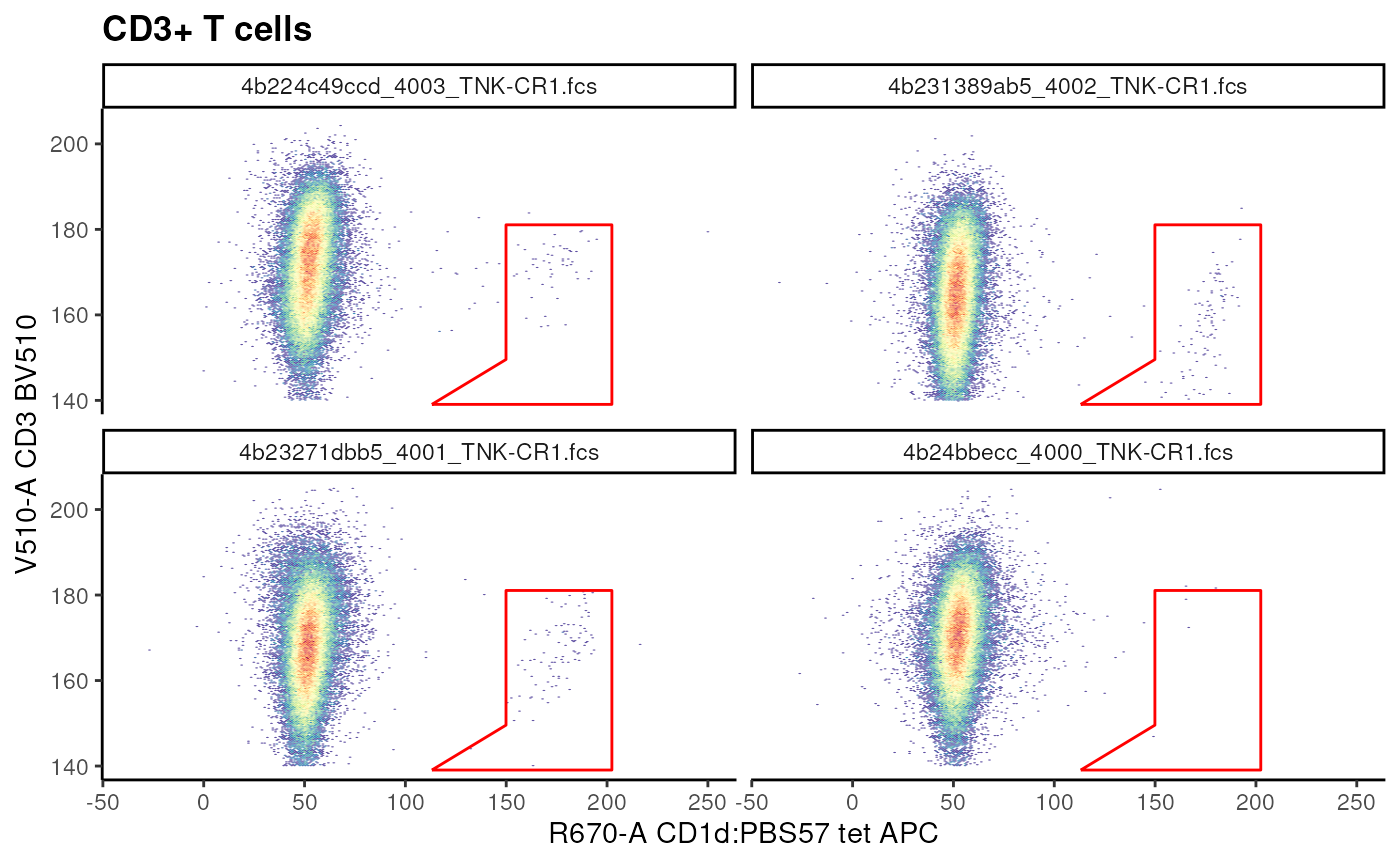
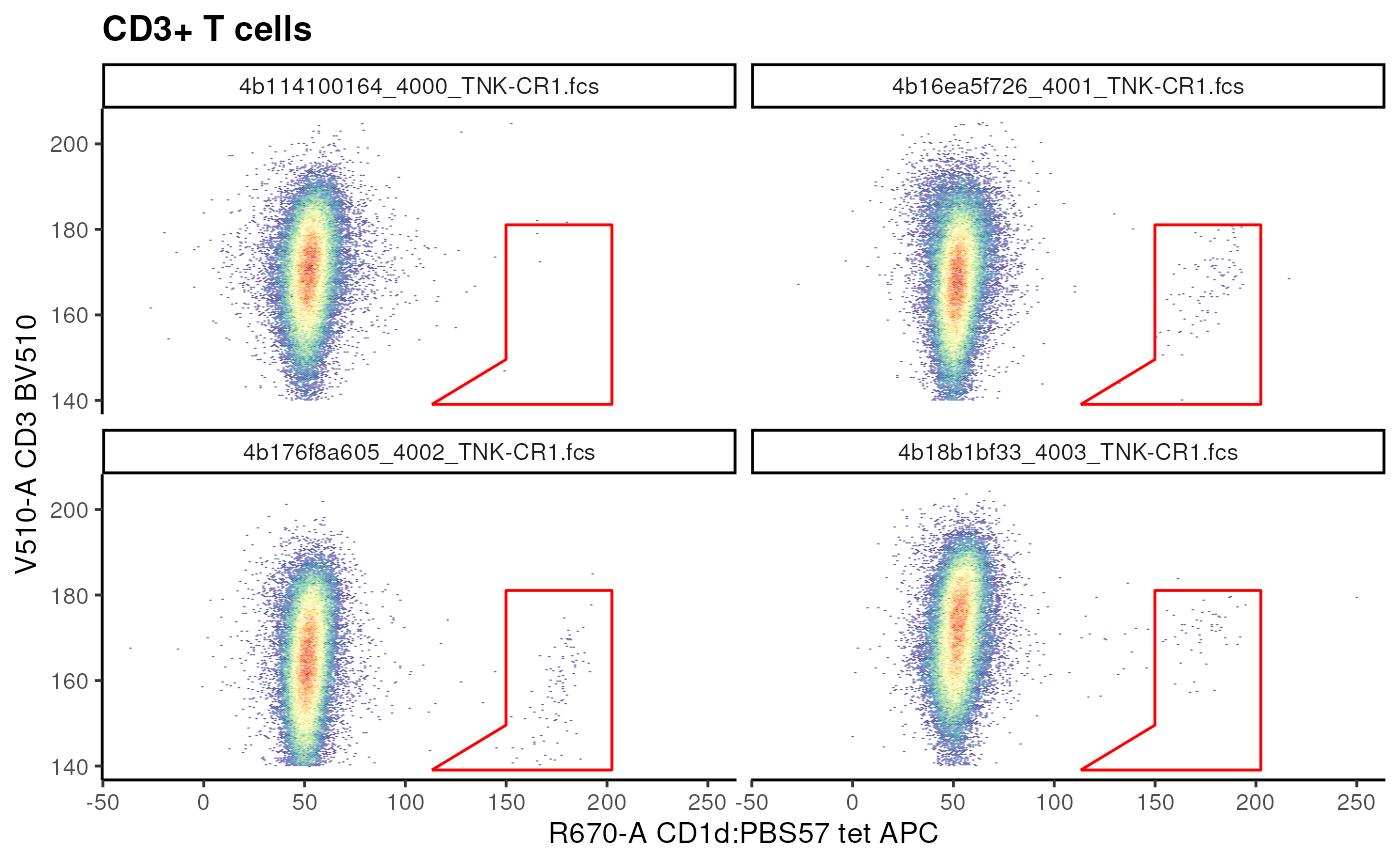
Deploying to gh-pages from @ OzetteTech/cytoverse-bioc-2023@9ab070774673ebd343eef5b520ec7b83f82ab056 🚀

diff --git a/articles/Import_fcs.html b/articles/Import_fcs.html
@@ -482,61 +482,61 @@ Additionally, <code>cytoset</code> is built upon a collection of
 <span><span class="co"># prior to providing metadata</span></span>
 <span><span class="fu"><a href="https://rdrr.io/pkg/Biobase/man/phenoData.html" class="external-link">pData</a></span><span class="op">(</span><span class="va">fs</span><span class="op">)</span></span></code></pre></div>
 <pre><code><span><span class="co">##                                                      name</span></span>
-<span><span class="co">## 4b22c204bb0_4000_BDC-CR1.fcs 4b22c204bb0_4000_BDC-CR1.fcs</span></span>
-<span><span class="co">## 4b24c3d3d45_4000_BDC-CR2.fcs 4b24c3d3d45_4000_BDC-CR2.fcs</span></span>
-<span><span class="co">## 4b24bbecc_4000_TNK-CR1.fcs     4b24bbecc_4000_TNK-CR1.fcs</span></span>
-<span><span class="co">## 4b230e08772_4000_TNK-CR2.fcs 4b230e08772_4000_TNK-CR2.fcs</span></span>
-<span><span class="co">## 4b2620860db_4001_BDC-CR1.fcs 4b2620860db_4001_BDC-CR1.fcs</span></span>
-<span><span class="co">## 4b267a096cd_4001_BDC-CR2.fcs 4b267a096cd_4001_BDC-CR2.fcs</span></span>
-<span><span class="co">## 4b23271dbb5_4001_TNK-CR1.fcs 4b23271dbb5_4001_TNK-CR1.fcs</span></span>
-<span><span class="co">## 4b2447e0a89_4001_TNK-CR2.fcs 4b2447e0a89_4001_TNK-CR2.fcs</span></span>
-<span><span class="co">## 4b2533bcf54_4002_BDC-CR1.fcs 4b2533bcf54_4002_BDC-CR1.fcs</span></span>
-<span><span class="co">## 4b2519a6229_4002_BDC-CR2.fcs 4b2519a6229_4002_BDC-CR2.fcs</span></span>
-<span><span class="co">## 4b231389ab5_4002_TNK-CR1.fcs 4b231389ab5_4002_TNK-CR1.fcs</span></span>
-<span><span class="co">## 4b241534469_4002_TNK-CR2.fcs 4b241534469_4002_TNK-CR2.fcs</span></span>
-<span><span class="co">## 4b2614f8d29_4003_BDC-CR1.fcs 4b2614f8d29_4003_BDC-CR1.fcs</span></span>
-<span><span class="co">## 4b250f2d882_4003_BDC-CR2.fcs 4b250f2d882_4003_BDC-CR2.fcs</span></span>
-<span><span class="co">## 4b224c49ccd_4003_TNK-CR1.fcs 4b224c49ccd_4003_TNK-CR1.fcs</span></span>
-<span><span class="co">## 4b2552dde4f_4003_TNK-CR2.fcs 4b2552dde4f_4003_TNK-CR2.fcs</span></span></code></pre>
+<span><span class="co">## 4b128ded40d_4000_BDC-CR1.fcs 4b128ded40d_4000_BDC-CR1.fcs</span></span>
+<span><span class="co">## 4b11a681d05_4000_BDC-CR2.fcs 4b11a681d05_4000_BDC-CR2.fcs</span></span>
+<span><span class="co">## 4b114100164_4000_TNK-CR1.fcs 4b114100164_4000_TNK-CR1.fcs</span></span>
+<span><span class="co">## 4b17f7d2e7c_4000_TNK-CR2.fcs 4b17f7d2e7c_4000_TNK-CR2.fcs</span></span>
+<span><span class="co">## 4b15178c30d_4001_BDC-CR1.fcs 4b15178c30d_4001_BDC-CR1.fcs</span></span>
+<span><span class="co">## 4b1538ad966_4001_BDC-CR2.fcs 4b1538ad966_4001_BDC-CR2.fcs</span></span>
+<span><span class="co">## 4b16ea5f726_4001_TNK-CR1.fcs 4b16ea5f726_4001_TNK-CR1.fcs</span></span>
+<span><span class="co">## 4b12097d2fd_4001_TNK-CR2.fcs 4b12097d2fd_4001_TNK-CR2.fcs</span></span>
+<span><span class="co">## 4b156bfc070_4002_BDC-CR1.fcs 4b156bfc070_4002_BDC-CR1.fcs</span></span>
+<span><span class="co">## 4b114e75a85_4002_BDC-CR2.fcs 4b114e75a85_4002_BDC-CR2.fcs</span></span>
+<span><span class="co">## 4b176f8a605_4002_TNK-CR1.fcs 4b176f8a605_4002_TNK-CR1.fcs</span></span>
+<span><span class="co">## 4b1761170b6_4002_TNK-CR2.fcs 4b1761170b6_4002_TNK-CR2.fcs</span></span>
+<span><span class="co">## 4b16750225b_4003_BDC-CR1.fcs 4b16750225b_4003_BDC-CR1.fcs</span></span>
+<span><span class="co">## 4b17c204c8a_4003_BDC-CR2.fcs 4b17c204c8a_4003_BDC-CR2.fcs</span></span>
+<span><span class="co">## 4b18b1bf33_4003_TNK-CR1.fcs   4b18b1bf33_4003_TNK-CR1.fcs</span></span>
+<span><span class="co">## 4b11de2681c_4003_TNK-CR2.fcs 4b11de2681c_4003_TNK-CR2.fcs</span></span></code></pre>
 <div class="sourceCode" id="cb60"><pre class="downlit sourceCode r">
 <code class="sourceCode R"><span><span class="co"># add metadata </span></span>
 <span><span class="fu"><a href="https://rdrr.io/pkg/Biobase/man/phenoData.html" class="external-link">pData</a></span><span class="op">(</span><span class="va">fs</span><span class="op">)</span> <span class="op">&lt;-</span> <span class="va">metadata</span></span>
 <span></span>
 <span><span class="fu"><a href="https://rdrr.io/pkg/Biobase/man/phenoData.html" class="external-link">pData</a></span><span class="op">(</span><span class="va">fs</span><span class="op">)</span></span></code></pre></div>
 <pre><code><span><span class="co">##                              Treatment         panel</span></span>
-<span><span class="co">## 4b22c204bb0_4000_BDC-CR1.fcs Untreated Myeloid Panel</span></span>
-<span><span class="co">## 4b24c3d3d45_4000_BDC-CR2.fcs   Treated Myeloid Panel</span></span>
-<span><span class="co">## 4b24bbecc_4000_TNK-CR1.fcs   Untreated  T Cell Panel</span></span>
-<span><span class="co">## 4b230e08772_4000_TNK-CR2.fcs Untreated  T Cell Panel</span></span>
-<span><span class="co">## 4b2620860db_4001_BDC-CR1.fcs Untreated Myeloid Panel</span></span>
-<span><span class="co">## 4b267a096cd_4001_BDC-CR2.fcs   Treated Myeloid Panel</span></span>
-<span><span class="co">## 4b23271dbb5_4001_TNK-CR1.fcs Untreated  T Cell Panel</span></span>
-<span><span class="co">## 4b2447e0a89_4001_TNK-CR2.fcs Untreated  T Cell Panel</span></span>
-<span><span class="co">## 4b2533bcf54_4002_BDC-CR1.fcs Untreated Myeloid Panel</span></span>
-<span><span class="co">## 4b2519a6229_4002_BDC-CR2.fcs   Treated Myeloid Panel</span></span>
-<span><span class="co">## 4b231389ab5_4002_TNK-CR1.fcs   Treated  T Cell Panel</span></span>
-<span><span class="co">## 4b241534469_4002_TNK-CR2.fcs   Treated  T Cell Panel</span></span>
-<span><span class="co">## 4b2614f8d29_4003_BDC-CR1.fcs   Treated Myeloid Panel</span></span>
-<span><span class="co">## 4b250f2d882_4003_BDC-CR2.fcs Untreated Myeloid Panel</span></span>
-<span><span class="co">## 4b224c49ccd_4003_TNK-CR1.fcs   Treated  T Cell Panel</span></span>
-<span><span class="co">## 4b2552dde4f_4003_TNK-CR2.fcs Untreated  T Cell Panel</span></span>
+<span><span class="co">## 4b128ded40d_4000_BDC-CR1.fcs   Treated Myeloid Panel</span></span>
+<span><span class="co">## 4b11a681d05_4000_BDC-CR2.fcs Untreated Myeloid Panel</span></span>
+<span><span class="co">## 4b114100164_4000_TNK-CR1.fcs Untreated  T Cell Panel</span></span>
+<span><span class="co">## 4b17f7d2e7c_4000_TNK-CR2.fcs   Treated  T Cell Panel</span></span>
+<span><span class="co">## 4b15178c30d_4001_BDC-CR1.fcs   Treated Myeloid Panel</span></span>
+<span><span class="co">## 4b1538ad966_4001_BDC-CR2.fcs   Treated Myeloid Panel</span></span>
+<span><span class="co">## 4b16ea5f726_4001_TNK-CR1.fcs Untreated  T Cell Panel</span></span>
+<span><span class="co">## 4b12097d2fd_4001_TNK-CR2.fcs Untreated  T Cell Panel</span></span>
+<span><span class="co">## 4b156bfc070_4002_BDC-CR1.fcs Untreated Myeloid Panel</span></span>
+<span><span class="co">## 4b114e75a85_4002_BDC-CR2.fcs Untreated Myeloid Panel</span></span>
+<span><span class="co">## 4b176f8a605_4002_TNK-CR1.fcs   Treated  T Cell Panel</span></span>
+<span><span class="co">## 4b1761170b6_4002_TNK-CR2.fcs   Treated  T Cell Panel</span></span>
+<span><span class="co">## 4b16750225b_4003_BDC-CR1.fcs   Treated Myeloid Panel</span></span>
+<span><span class="co">## 4b17c204c8a_4003_BDC-CR2.fcs   Treated Myeloid Panel</span></span>
+<span><span class="co">## 4b18b1bf33_4003_TNK-CR1.fcs  Untreated  T Cell Panel</span></span>
+<span><span class="co">## 4b11de2681c_4003_TNK-CR2.fcs Untreated  T Cell Panel</span></span>
 <span><span class="co">##                                                      name</span></span>
-<span><span class="co">## 4b22c204bb0_4000_BDC-CR1.fcs 4b22c204bb0_4000_BDC-CR1.fcs</span></span>
-<span><span class="co">## 4b24c3d3d45_4000_BDC-CR2.fcs 4b24c3d3d45_4000_BDC-CR2.fcs</span></span>
-<span><span class="co">## 4b24bbecc_4000_TNK-CR1.fcs     4b24bbecc_4000_TNK-CR1.fcs</span></span>
-<span><span class="co">## 4b230e08772_4000_TNK-CR2.fcs 4b230e08772_4000_TNK-CR2.fcs</span></span>
-<span><span class="co">## 4b2620860db_4001_BDC-CR1.fcs 4b2620860db_4001_BDC-CR1.fcs</span></span>
-<span><span class="co">## 4b267a096cd_4001_BDC-CR2.fcs 4b267a096cd_4001_BDC-CR2.fcs</span></span>
-<span><span class="co">## 4b23271dbb5_4001_TNK-CR1.fcs 4b23271dbb5_4001_TNK-CR1.fcs</span></span>
-<span><span class="co">## 4b2447e0a89_4001_TNK-CR2.fcs 4b2447e0a89_4001_TNK-CR2.fcs</span></span>
-<span><span class="co">## 4b2533bcf54_4002_BDC-CR1.fcs 4b2533bcf54_4002_BDC-CR1.fcs</span></span>
-<span><span class="co">## 4b2519a6229_4002_BDC-CR2.fcs 4b2519a6229_4002_BDC-CR2.fcs</span></span>
-<span><span class="co">## 4b231389ab5_4002_TNK-CR1.fcs 4b231389ab5_4002_TNK-CR1.fcs</span></span>
-<span><span class="co">## 4b241534469_4002_TNK-CR2.fcs 4b241534469_4002_TNK-CR2.fcs</span></span>
-<span><span class="co">## 4b2614f8d29_4003_BDC-CR1.fcs 4b2614f8d29_4003_BDC-CR1.fcs</span></span>
-<span><span class="co">## 4b250f2d882_4003_BDC-CR2.fcs 4b250f2d882_4003_BDC-CR2.fcs</span></span>
-<span><span class="co">## 4b224c49ccd_4003_TNK-CR1.fcs 4b224c49ccd_4003_TNK-CR1.fcs</span></span>
-<span><span class="co">## 4b2552dde4f_4003_TNK-CR2.fcs 4b2552dde4f_4003_TNK-CR2.fcs</span></span></code></pre>
+<span><span class="co">## 4b128ded40d_4000_BDC-CR1.fcs 4b128ded40d_4000_BDC-CR1.fcs</span></span>
+<span><span class="co">## 4b11a681d05_4000_BDC-CR2.fcs 4b11a681d05_4000_BDC-CR2.fcs</span></span>
+<span><span class="co">## 4b114100164_4000_TNK-CR1.fcs 4b114100164_4000_TNK-CR1.fcs</span></span>
+<span><span class="co">## 4b17f7d2e7c_4000_TNK-CR2.fcs 4b17f7d2e7c_4000_TNK-CR2.fcs</span></span>
+<span><span class="co">## 4b15178c30d_4001_BDC-CR1.fcs 4b15178c30d_4001_BDC-CR1.fcs</span></span>
+<span><span class="co">## 4b1538ad966_4001_BDC-CR2.fcs 4b1538ad966_4001_BDC-CR2.fcs</span></span>
+<span><span class="co">## 4b16ea5f726_4001_TNK-CR1.fcs 4b16ea5f726_4001_TNK-CR1.fcs</span></span>
+<span><span class="co">## 4b12097d2fd_4001_TNK-CR2.fcs 4b12097d2fd_4001_TNK-CR2.fcs</span></span>
+<span><span class="co">## 4b156bfc070_4002_BDC-CR1.fcs 4b156bfc070_4002_BDC-CR1.fcs</span></span>
+<span><span class="co">## 4b114e75a85_4002_BDC-CR2.fcs 4b114e75a85_4002_BDC-CR2.fcs</span></span>
+<span><span class="co">## 4b176f8a605_4002_TNK-CR1.fcs 4b176f8a605_4002_TNK-CR1.fcs</span></span>
+<span><span class="co">## 4b1761170b6_4002_TNK-CR2.fcs 4b1761170b6_4002_TNK-CR2.fcs</span></span>
+<span><span class="co">## 4b16750225b_4003_BDC-CR1.fcs 4b16750225b_4003_BDC-CR1.fcs</span></span>
+<span><span class="co">## 4b17c204c8a_4003_BDC-CR2.fcs 4b17c204c8a_4003_BDC-CR2.fcs</span></span>
+<span><span class="co">## 4b18b1bf33_4003_TNK-CR1.fcs   4b18b1bf33_4003_TNK-CR1.fcs</span></span>
+<span><span class="co">## 4b11de2681c_4003_TNK-CR2.fcs 4b11de2681c_4003_TNK-CR2.fcs</span></span></code></pre>
 <p>The benefit having metadata is that we can use many of the
 sub-setting operations in a metadata specific manner. <em>Note: Many of
 the sub-setting operation for <code>flowFrame</code> is also applicable
@@ -559,23 +559,23 @@ files.</p>
 <div class="sourceCode" id="cb64"><pre class="downlit sourceCode r">
 <code class="sourceCode R"><span><span class="fu"><a href="https://rdrr.io/pkg/Biobase/man/phenoData.html" class="external-link">pData</a></span><span class="op">(</span><span class="va">fs_myeloid</span><span class="op">)</span></span></code></pre></div>
 <pre><code><span><span class="co">##                              Treatment         panel</span></span>
-<span><span class="co">## 4b22c204bb0_4000_BDC-CR1.fcs Untreated Myeloid Panel</span></span>
-<span><span class="co">## 4b24c3d3d45_4000_BDC-CR2.fcs   Treated Myeloid Panel</span></span>
-<span><span class="co">## 4b2620860db_4001_BDC-CR1.fcs Untreated Myeloid Panel</span></span>
-<span><span class="co">## 4b267a096cd_4001_BDC-CR2.fcs   Treated Myeloid Panel</span></span>
-<span><span class="co">## 4b2533bcf54_4002_BDC-CR1.fcs Untreated Myeloid Panel</span></span>
-<span><span class="co">## 4b2519a6229_4002_BDC-CR2.fcs   Treated Myeloid Panel</span></span>
-<span><span class="co">## 4b2614f8d29_4003_BDC-CR1.fcs   Treated Myeloid Panel</span></span>
-<span><span class="co">## 4b250f2d882_4003_BDC-CR2.fcs Untreated Myeloid Panel</span></span>
+<span><span class="co">## 4b128ded40d_4000_BDC-CR1.fcs   Treated Myeloid Panel</span></span>
+<span><span class="co">## 4b11a681d05_4000_BDC-CR2.fcs Untreated Myeloid Panel</span></span>
+<span><span class="co">## 4b15178c30d_4001_BDC-CR1.fcs   Treated Myeloid Panel</span></span>
+<span><span class="co">## 4b1538ad966_4001_BDC-CR2.fcs   Treated Myeloid Panel</span></span>
+<span><span class="co">## 4b156bfc070_4002_BDC-CR1.fcs Untreated Myeloid Panel</span></span>
+<span><span class="co">## 4b114e75a85_4002_BDC-CR2.fcs Untreated Myeloid Panel</span></span>
+<span><span class="co">## 4b16750225b_4003_BDC-CR1.fcs   Treated Myeloid Panel</span></span>
+<span><span class="co">## 4b17c204c8a_4003_BDC-CR2.fcs   Treated Myeloid Panel</span></span>
 <span><span class="co">##                                                      name</span></span>
-<span><span class="co">## 4b22c204bb0_4000_BDC-CR1.fcs 4b22c204bb0_4000_BDC-CR1.fcs</span></span>
-<span><span class="co">## 4b24c3d3d45_4000_BDC-CR2.fcs 4b24c3d3d45_4000_BDC-CR2.fcs</span></span>
-<span><span class="co">## 4b2620860db_4001_BDC-CR1.fcs 4b2620860db_4001_BDC-CR1.fcs</span></span>
-<span><span class="co">## 4b267a096cd_4001_BDC-CR2.fcs 4b267a096cd_4001_BDC-CR2.fcs</span></span>
-<span><span class="co">## 4b2533bcf54_4002_BDC-CR1.fcs 4b2533bcf54_4002_BDC-CR1.fcs</span></span>
-<span><span class="co">## 4b2519a6229_4002_BDC-CR2.fcs 4b2519a6229_4002_BDC-CR2.fcs</span></span>
-<span><span class="co">## 4b2614f8d29_4003_BDC-CR1.fcs 4b2614f8d29_4003_BDC-CR1.fcs</span></span>
-<span><span class="co">## 4b250f2d882_4003_BDC-CR2.fcs 4b250f2d882_4003_BDC-CR2.fcs</span></span></code></pre>
+<span><span class="co">## 4b128ded40d_4000_BDC-CR1.fcs 4b128ded40d_4000_BDC-CR1.fcs</span></span>
+<span><span class="co">## 4b11a681d05_4000_BDC-CR2.fcs 4b11a681d05_4000_BDC-CR2.fcs</span></span>
+<span><span class="co">## 4b15178c30d_4001_BDC-CR1.fcs 4b15178c30d_4001_BDC-CR1.fcs</span></span>
+<span><span class="co">## 4b1538ad966_4001_BDC-CR2.fcs 4b1538ad966_4001_BDC-CR2.fcs</span></span>
+<span><span class="co">## 4b156bfc070_4002_BDC-CR1.fcs 4b156bfc070_4002_BDC-CR1.fcs</span></span>
+<span><span class="co">## 4b114e75a85_4002_BDC-CR2.fcs 4b114e75a85_4002_BDC-CR2.fcs</span></span>
+<span><span class="co">## 4b16750225b_4003_BDC-CR1.fcs 4b16750225b_4003_BDC-CR1.fcs</span></span>
+<span><span class="co">## 4b17c204c8a_4003_BDC-CR2.fcs 4b17c204c8a_4003_BDC-CR2.fcs</span></span></code></pre>
 <p>Example of <code>cytoset</code> sub-setting</p>
 <div class="sourceCode" id="cb66"><pre class="downlit sourceCode r">
 <code class="sourceCode R"><span><span class="co"># demonstrate how cs point to the same underlying data</span></span>
